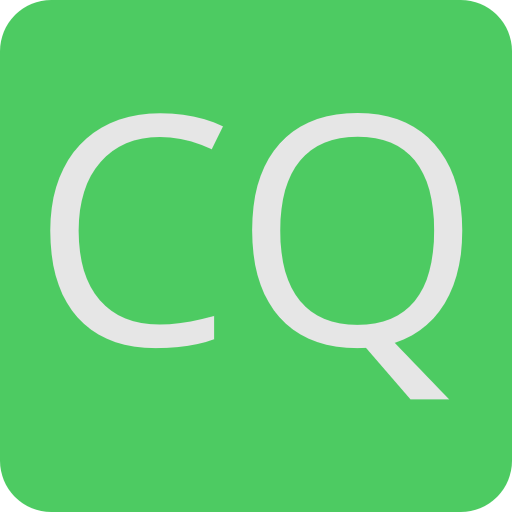
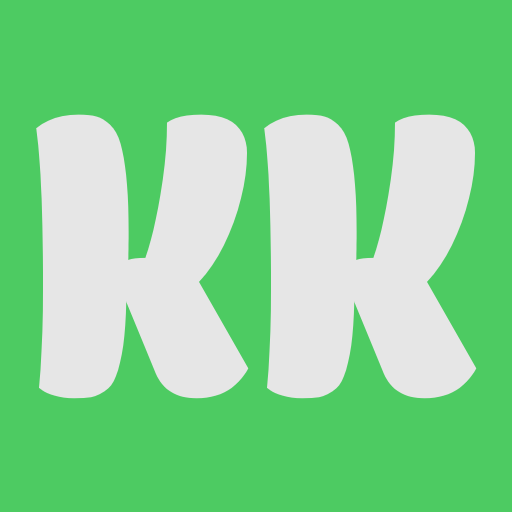
rebrand coder-quiz to koding-kuiz

diff --git a/client/public/index.html b/client/public/index.html
@@ -8,10 +8,10 @@
   <link rel="icon" href="<%= BASE_URL %>favicon.ico">
 
   <!-- Primary Meta Tags -->
-  <title>Coder Quiz</title>
-  <meta name="title" content="Coder Quiz">
+  <title>Koding Kuiz</title>
+  <meta name="title" content="Koding Kuiz">
   <meta name="description"
-    content="CoderQuiz is a quiz game about programming, coding, and related stuff, so you can test your knowledge about the subject while having fun!">
+    content="Koding Kuiz is a quiz game about programming, coding, and related stuff, so you can test your knowledge about the subject while having fun!">
   <link rel="apple-touch-icon" sizes="180x180" href="<%= BASE_URL %>apple-touch-icon.png">
   <link rel="icon" type="image/png" sizes="32x32" href="<%= BASE_URL %>favicon-32x32.png">
   <link rel="icon" type="image/png" sizes="16x16" href="<%= BASE_URL %>favicon-16x16.png">
@@ -20,23 +20,23 @@
   <!-- Open Graph / Facebook -->
   <meta property="og:type" content="website">
   <meta property="og:url" content="<%= BASE_URL %>">
-  <meta property="og:title" content="Coder Quiz">
+  <meta property="og:title" content="Koding Kuiz">
   <meta property="og:description"
-    content="CoderQuiz is a quiz game about programming, coding, and related stuff, so you can test your knowledge about the subject while having fun!">
+    content="Koding Kuiz is a quiz game about programming, coding, and related stuff, so you can test your knowledge about the subject while having fun!">
   <meta property="og:image" content="<%= BASE_URL %>android-chrome-192x192.png">
 
   <!-- Twitter -->
   <meta property="twitter:card" content="summary_large_image">
   <meta property="twitter:url" content="<%= BASE_URL %>">
-  <meta property="twitter:title" content="Coder Quiz">
+  <meta property="twitter:title" content="Koding Kuiz">
   <meta property="twitter:description"
-    content="CoderQuiz is a quiz game about programming, coding, and related stuff, so you can test your knowledge about the subject while having fun!">
+    content="Koding Kuiz is a quiz game about programming, coding, and related stuff, so you can test your knowledge about the subject while having fun!">
   <meta property="twitter:image" content="<%= BASE_URL %>android-chrome-192x192.png">
 </head>
 
 <body>
   <noscript>
-    <strong>We're sorry but Coder Quiz doesn't work properly without JavaScript enabled.
+    <strong>We're sorry but Koding Kuiz doesn't work properly without JavaScript enabled.
       Please enable it to continue.</strong>
   </noscript>
   <div id="app"></div>

diff --git a/client/src/views/About.vue b/client/src/views/About.vue
@@ -2,7 +2,7 @@
   <div class="about">
     <h1 id="about-us">About this game</h1>
     <p>
-      CoderQuiz is a quiz game about programming, coding, and related stuff, so
+      KodingKuiz is a quiz game about programming, coding, and related stuff, so
       you can test your knowledge about the subject while having fun!
     </p>
 
@@ -18,7 +18,7 @@
       </li>
     </ul>
 
-    <h1 id="why">Why is this a thing?</h1>
+    <h1 id="why">Why?</h1>
     <p>
       This is a personal project that I (<a
         href="https://www.linkedin.com/in/khusyasy/"

diff --git a/client/src/App.vue b/client/src/App.vue
@@ -1,7 +1,7 @@
 <template>
   <div id="nav">
     <div>
-      <h1>CoderQuiz</h1>
+      <h1>KodingKuiz</h1>
     </div>
     <div class="nav-items">
       <div

diff --git a/README.md b/README.md
@@ -1,4 +1,6 @@
-# coder-quiz
+# koding-kuiz
+KodingKuiz is a quiz game about programming, coding, and related stuff, so you can test your knowledge about the subject while having fun!
+
 
 ## Client setup
 ```
@@ -19,6 +21,3 @@ npm run build
 ```
 npm run lint
 ```
-
-### Customize configuration
-See [Configuration Reference](https://cli.vuejs.org/config/).
